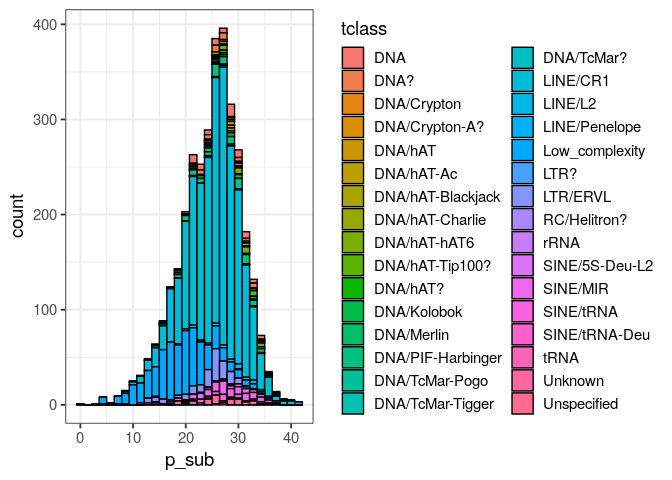
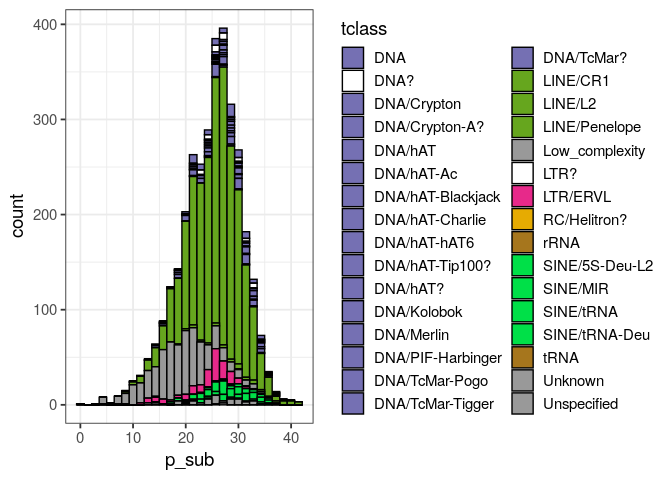
add to README

Changed region(s): [[0.1562, 0.0625, 0.4375, 0.8438], [0.75, 0.0938, 0.8125, 0.875], [0.5, 0.0938, 0.5625, 0.875]]

diff --git a/README.md b/README.md
@@ -102,13 +102,38 @@ ggplot(kakapo_aggregated, aes(qlen, tclass)) +
 
 <img src="man/figures/README-unnamed-chunk-5-1.png" width="100%" />
 
-Or the distrbution of the `p_sub` statistic (the proportion of bases that different from the consensus element)
+Quite often, you will want to remove some fo the sequences that are included in the output file. For instance, simple repeats and low complexity regions. The function `filter_by_tclass` will remove thise sequences along with functional RNAs and `ARTEFACT` sequences.
 
 ``` r
-ggplot(kakapo_aggregated, aes(p_sub, fill=tclass)) +
+kakapo_just_TEs <-  filter_by_tclass(kakapo_aggregated)
+table(kakapo_just_TEs$tclass)
+#> 
+#>               DNA              DNA?       DNA/Crypton    DNA/Crypton-A? 
+#>                74                43                13                 6 
+#>           DNA/hAT        DNA/hAT-Ac DNA/hAT-Blackjack   DNA/hAT-Charlie 
+#>                15                14                10                 3 
+#>      DNA/hAT-hAT6   DNA/hAT-Tip100?          DNA/hAT?       DNA/Kolobok 
+#>                38                 1                 4                26 
+#>        DNA/Merlin DNA/PIF-Harbinger    DNA/TcMar-Pogo  DNA/TcMar-Tigger 
+#>                15                96                 2                 8 
+#>        DNA/TcMar?          LINE/CR1           LINE/L2     LINE/Penelope 
+#>                 4              2049                35                 3 
+#>              LTR?          LTR/ERVL      RC/Helitron?    SINE/5S-Deu-L2 
+#>                 3               140                 1                32 
+#>          SINE/MIR         SINE/tRNA     SINE/tRNA-Deu           Unknown 
+#>                86                27                 2                55 
+#>       Unspecified 
+#>                 3
+```
+
+Or the distrbution of the `p_sub` statistic (the proportion of bases that different from the consensus element). The function `make_TE_pallete` includes a pre-defined pallete for the `tclass` column.
+
+``` r
+ggplot(kakapo_just_TEs, aes(p_sub, fill=tclass)) +
     geom_histogram(colour="black") +
+    scale_fill_manual(values=make_TE_pallete(kakapo_aggregated)) +
     theme_bw(base_size=14) 
 #> `stat_bin()` using `bins = 30`. Pick better value with `binwidth`.
 ```
 
-<img src="man/figures/README-unnamed-chunk-6-1.png" width="100%" />
+<img src="man/figures/README-unnamed-chunk-7-1.png" width="100%" />
